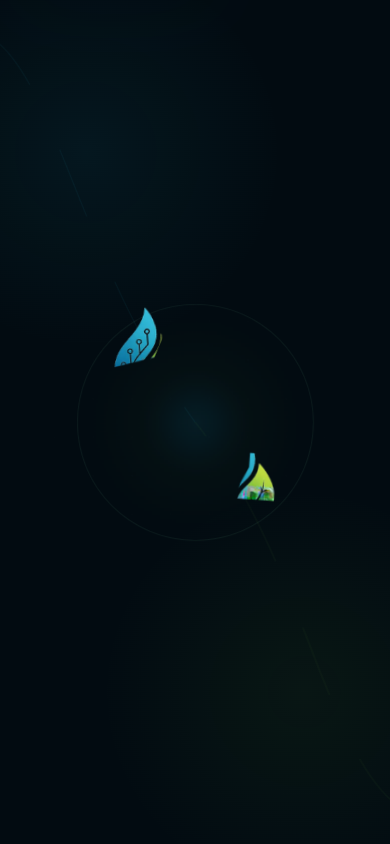
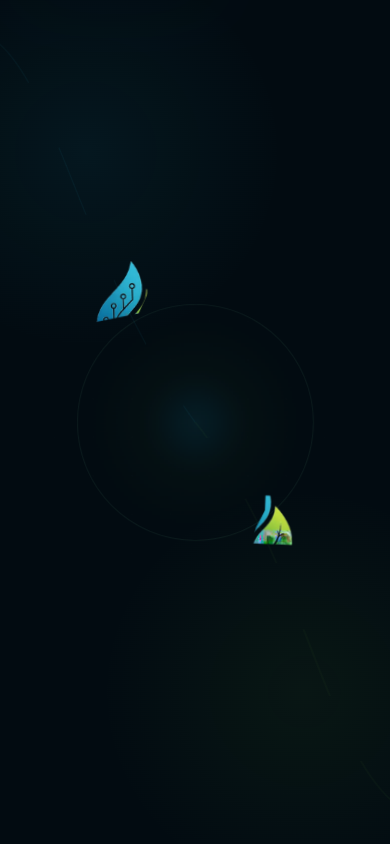
fix(agro): smooth intro convergence motion

Changed region(s): [[0.2462, 0.3081, 0.4, 0.4313], [0.6154, 0.5237, 0.7692, 0.6469]]

diff --git a/agro-intelligence/styles.css b/agro-intelligence/styles.css
@@ -52,17 +52,17 @@ html.intro-pending body { height: 100vh; overflow: hidden; }
 .intro-mark, .intro-mark__part, .intro-mark__part img, .intro-mark__complete { position: absolute; inset: 0; width: 100%; height: 100%; }
 .intro-mark__part, .intro-mark__complete { will-change: transform, opacity; }
 .intro-mark__part img, .intro-mark__complete { object-fit: contain; }
-.intro-mark__part--water { clip-path: polygon(0 0, 71% 0, 70% 34%, 59% 50%, 0 57%); opacity: 0; animation: introWater 1.42s .08s cubic-bezier(.16, .74, .24, 1) forwards; }
-.intro-mark__part--leaf { clip-path: polygon(57% 20%, 100% 20%, 100% 62%, 42% 62%, 47% 48%, 57% 33%); opacity: 0; animation: introLeaf 1.42s .08s cubic-bezier(.16, .74, .24, 1) forwards; }
-.intro-mark__complete { opacity: 0; filter: drop-shadow(0 0 0 rgba(120, 223, 76, 0)); animation: introMarkResolve .52s 1.34s var(--ease) forwards; }
+.intro-mark__part--water { clip-path: polygon(0 0, 71% 0, 70% 34%, 59% 50%, 0 57%); opacity: 0; animation: introWater 1.62s .06s cubic-bezier(.22, .61, .2, 1) forwards; }
+.intro-mark__part--leaf { clip-path: polygon(57% 20%, 100% 20%, 100% 62%, 42% 62%, 47% 48%, 57% 33%); opacity: 0; animation: introLeaf 1.62s .06s cubic-bezier(.22, .61, .2, 1) forwards; }
+.intro-mark__complete { opacity: 0; filter: drop-shadow(0 0 0 rgba(120, 223, 76, 0)); animation: introMarkResolve .7s 1s cubic-bezier(.2, .68, .24, 1) forwards; }
 .intro-energy { position: absolute; z-index: -1; top: 50%; left: 50%; width: 116%; aspect-ratio: 1; border: 1px solid rgba(143, 240, 192, .36); border-radius: 50%; opacity: 0; transform: translate(-50%, -50%) scale(.42); }
-.intro-energy--one { animation: introConvergencePulse .72s 1.26s ease-out forwards; }
-.intro-energy--two { width: 165%; border-color: rgba(37, 189, 219, .18); animation: introConvergencePulse .84s 1.34s ease-out forwards; }
+.intro-energy--one { animation: introConvergencePulse .78s 1.06s cubic-bezier(.2, .58, .28, 1) forwards; }
+.intro-energy--two { width: 165%; border-color: rgba(37, 189, 219, .18); animation: introConvergencePulse .88s 1.12s cubic-bezier(.2, .58, .28, 1) forwards; }
 .intro-flow { position: absolute; z-index: 1; inset: 0; width: 100%; height: 100%; overflow: visible; opacity: .7; }
 .intro-flow path { fill: none; stroke-linecap: round; stroke-width: .18; stroke-dasharray: 1; stroke-dashoffset: 1; vector-effect: non-scaling-stroke; }
-.intro-flow--water path { stroke: rgba(37, 189, 219, .52); filter: drop-shadow(0 0 8px rgba(37, 189, 219, .28)); animation: introPath 1.34s .05s var(--ease) forwards, introTrailOut .35s 1.28s ease forwards; }
-.intro-flow--leaf path { stroke: rgba(120, 223, 76, .42); filter: drop-shadow(0 0 8px rgba(120, 223, 76, .24)); animation: introPath 1.34s .05s var(--ease) forwards, introTrailOut .35s 1.28s ease forwards; }
-.agro-intro__name { position: absolute; z-index: 4; top: calc(50% + clamp(82px, 8.5vw, 114px)); display: grid; justify-items: center; line-height: 1; opacity: 0; transform: translateY(8px); animation: introName .5s 1.62s var(--ease) forwards; }
+.intro-flow--water path { stroke: rgba(37, 189, 219, .52); filter: drop-shadow(0 0 8px rgba(37, 189, 219, .28)); animation: introPath 1.38s .04s cubic-bezier(.22, .61, .2, 1) forwards, introTrailOut .5s .96s ease forwards; }
+.intro-flow--leaf path { stroke: rgba(120, 223, 76, .42); filter: drop-shadow(0 0 8px rgba(120, 223, 76, .24)); animation: introPath 1.38s .04s cubic-bezier(.22, .61, .2, 1) forwards, introTrailOut .5s .96s ease forwards; }
+.agro-intro__name { position: absolute; z-index: 4; top: calc(50% + clamp(82px, 8.5vw, 114px)); display: grid; justify-items: center; line-height: 1; opacity: 0; transform: translateY(8px); animation: introName .5s 1.56s cubic-bezier(.2, .68, .24, 1) forwards; }
 .agro-intro__name strong { color: var(--white); font-size: clamp(.88rem, 1.4vw, 1.06rem); letter-spacing: .22em; text-indent: .22em; }
 .agro-intro__name span { margin-top: 9px; color: var(--green); font-size: clamp(.56rem, .8vw, .68rem); font-weight: 760; letter-spacing: .11em; }
 
@@ -71,23 +71,27 @@ html.intro-pending body { height: 100vh; overflow: hidden; }
 .peacock i { position: absolute; bottom: 0; left: 50%; width: var(--feather-width, 84px); height: var(--feather-height, 240px); border: 1px solid rgba(37, 189, 219, .21); border-radius: 50% 50% 12px 12px; background: linear-gradient(180deg, rgba(37, 189, 219, .04), rgba(120, 223, 76, .015)); box-shadow: inset 0 0 30px rgba(37, 189, 219, .025); transform: translateX(-50%) rotate(calc(var(--feather) * var(--fan-angle, 11deg))) scaleY(.15); transform-origin: 50% 100%; opacity: 0; }
 .peacock i::before { position: absolute; top: 15px; left: 50%; width: 13px; height: 13px; border: 1px solid rgba(143, 240, 192, .65); border-radius: 50%; background: radial-gradient(circle, var(--green) 0 22%, rgba(37, 189, 219, .7) 24% 42%, transparent 46%); box-shadow: 0 0 22px rgba(120, 223, 76, .42); content: ""; transform: translateX(-50%); }
 @keyframes introWater {
-  0% { opacity: 0; transform: translate(-48vw, -41vh) rotate(-16deg) scale(.76); }
-  16% { opacity: 1; }
-  46% { opacity: 1; transform: translate(-25vw, -17vh) rotate(-9deg) scale(.88); }
-  76% { opacity: 1; transform: translate(-6vw, -3vh) rotate(-2deg) scale(.97); }
-  100% { opacity: 1; transform: none; }
+  0% { opacity: 0; transform: translate(-48vw, -41vh) rotate(-3.5deg) scale(.965); }
+  12% { opacity: 1; }
+  42% { opacity: 1; transform: translate(-26vw, -21vh) rotate(-2.5deg) scale(.974); }
+  68% { opacity: 1; transform: translate(-8.5vw, -6.2vh) rotate(-1.25deg) scale(.989); }
+  82% { opacity: .86; transform: translate(-2.4vw, -1.45vh) rotate(-.42deg) scale(.998); }
+  94% { opacity: .34; transform: translate(-.38vw, -.16vh) rotate(-.08deg) scale(1.004); }
+  100% { opacity: 0; transform: translate(0, 0) rotate(0) scale(1); }
 }
 @keyframes introLeaf {
-  0% { opacity: 0; transform: translate(48vw, 41vh) rotate(14deg) scale(.76); }
-  16% { opacity: 1; }
-  46% { opacity: 1; transform: translate(25vw, 17vh) rotate(8deg) scale(.88); }
-  76% { opacity: 1; transform: translate(6vw, 3vh) rotate(2deg) scale(.97); }
-  100% { opacity: 1; transform: none; }
+  0% { opacity: 0; transform: translate(48vw, 41vh) rotate(4.5deg) scale(.965); }
+  12% { opacity: 1; }
+  42% { opacity: 1; transform: translate(26vw, 21vh) rotate(3.2deg) scale(.974); }
+  68% { opacity: 1; transform: translate(8.5vw, 6.2vh) rotate(1.55deg) scale(.989); }
+  82% { opacity: .86; transform: translate(2.4vw, 1.45vh) rotate(.5deg) scale(.998); }
+  94% { opacity: .34; transform: translate(.38vw, .16vh) rotate(.09deg) scale(1.004); }
+  100% { opacity: 0; transform: translate(0, 0) rotate(0) scale(1); }
 }
 @keyframes introPath { from { stroke-dashoffset: 1; } to { stroke-dashoffset: 0; } }
 @keyframes introTrailOut { to { opacity: 0; } }
-@keyframes introConvergencePulse { 0% { opacity: 0; transform: translate(-50%, -50%) scale(.42); } 35% { opacity: .62; } 100% { opacity: 0; transform: translate(-50%, -50%) scale(1.34); } }
-@keyframes introMarkResolve { 0% { opacity: 0; transform: scale(.965); } 55% { opacity: 1; filter: drop-shadow(0 0 18px rgba(120, 223, 76, .22)); transform: scale(1.025); } 100% { opacity: 1; filter: drop-shadow(0 0 8px rgba(37, 189, 219, .1)); transform: scale(1); } }
+@keyframes introConvergencePulse { 0% { opacity: 0; transform: translate(-50%, -50%) scale(.58); } 28% { opacity: .28; } 100% { opacity: 0; transform: translate(-50%, -50%) scale(1.24); } }
+@keyframes introMarkResolve { 0% { opacity: 0; transform: scale(.985); } 34% { opacity: .18; transform: scale(.993); } 72% { opacity: .84; filter: drop-shadow(0 0 13px rgba(120, 223, 76, .16)); transform: scale(1.008); } 100% { opacity: 1; filter: drop-shadow(0 0 8px rgba(37, 189, 219, .1)); transform: scale(1); } }
 @keyframes introAtmosphere { 0% { opacity: 0; transform: scale(.56); } 48% { opacity: 1; } 100% { opacity: .22; transform: scale(1.08); } }
 @keyframes introAura { 0% { opacity: 0; } 28%, 82% { opacity: 1; } 100% { opacity: .35; } }
 @keyframes introParticles { 0% { opacity: 0; transform: scale(1.04); } 42%, 82% { opacity: .36; } 100% { opacity: 0; transform: scale(1); } }

diff --git a/agro-intelligence/index.html b/agro-intelligence/index.html
@@ -75,7 +75,7 @@
   }
   </script>
 
-  <link rel="stylesheet" href="./styles.css?v=20261025-v2.2-intro">
+  <link rel="stylesheet" href="./styles.css?v=20261025-v2.2-intro-motion">
   <script src="./script.js?v=20261025-v2.2-intro" defer></script>
 </head>
 <body>
